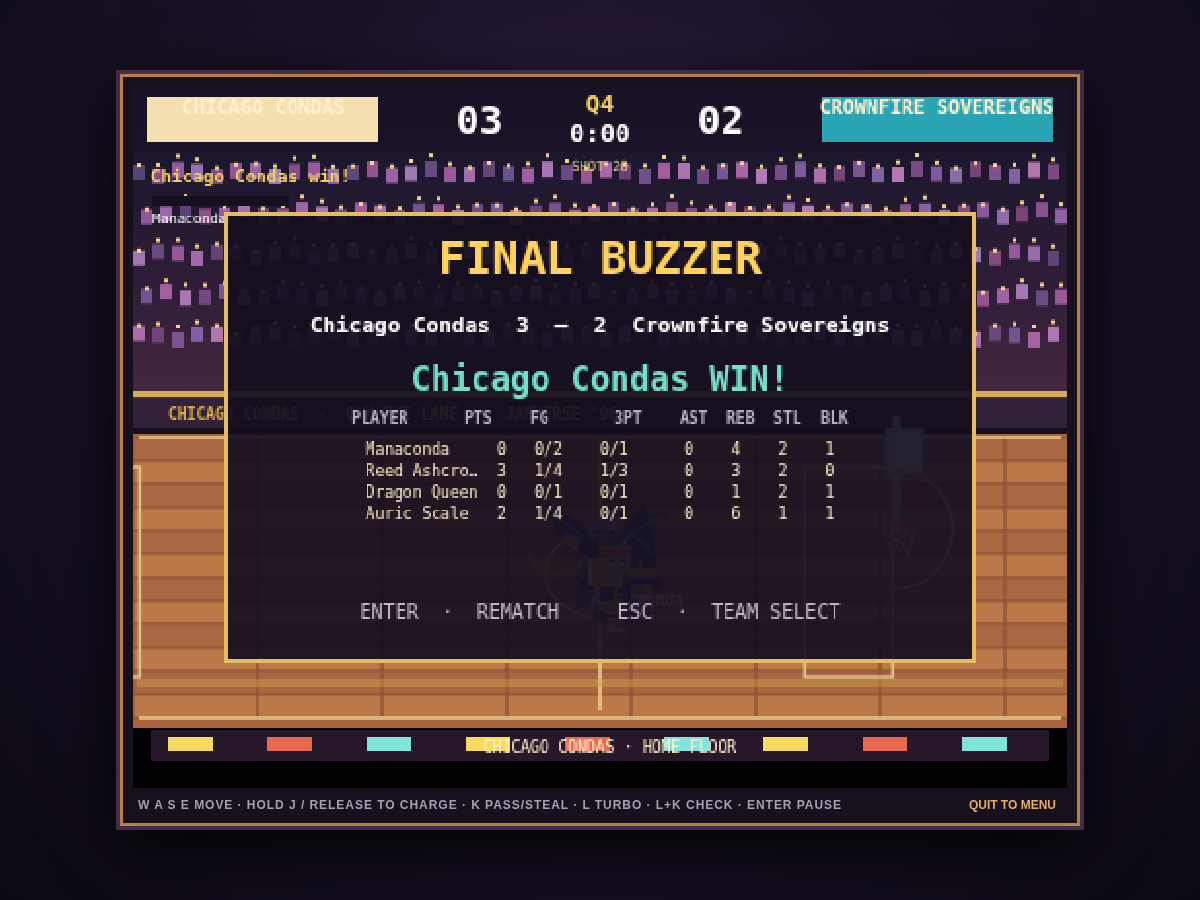
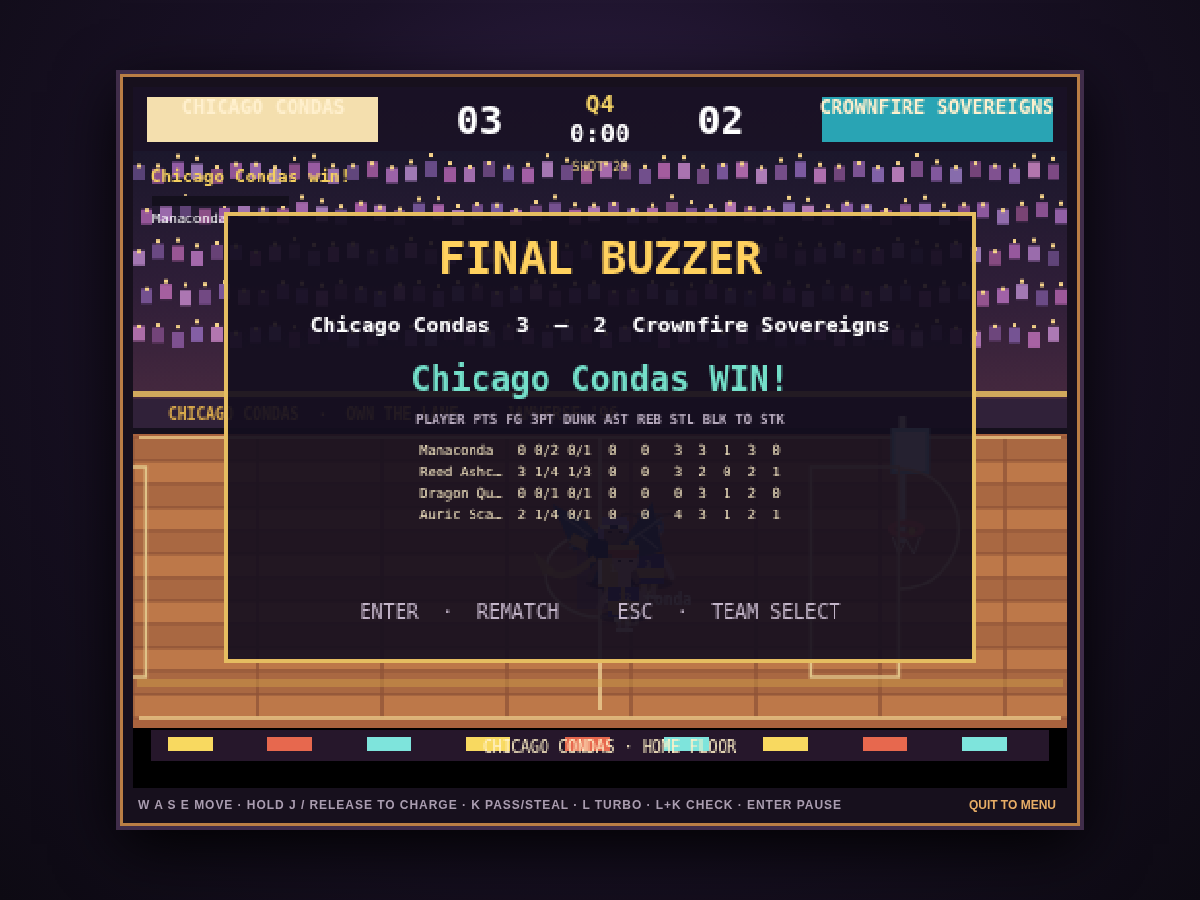
Track dunk stats and best scoring streaks

Changed region(s): [[0.2775, 0.4356, 0.7092, 0.5911], [0.0925, 0.5289, 0.1233, 0.7467]]

diff --git a/dist/JAMVERSE_96.html b/dist/JAMVERSE_96.html
@@ -211,7 +211,7 @@ function createInput(playerId, values = {}) {
 }
 
 function createPlayer(athlete, team, n, center) {
-  return { id: athlete?.id ?? `p${team}-${n}`, name: athlete?.name ?? (team === 0 ? ['Rookie','Sidekick'][n] : ['CPU Ace','CPU Wing'][n]), team, x: center + n * 5, y: 38 + n * 24, vx: 0, vy: 0, z: 0, vz: 0, speed: .09 + ((athlete?.stats?.speed ?? 78) / 99) * .09, shoot: athlete?.stats?.three ?? 78, dunk: athlete?.stats?.dunk ?? 75, block: athlete?.stats?.block ?? 75, steal: athlete?.stats?.steal ?? 75, strength: athlete?.stats?.strength ?? 75, hasBall: false, stamina: 100, charge: 0, stun: 0, anim: 'idle', poseFrames:0, points: 0, fga: 0, fgm: 0, threeAttempts: 0, threeMakes: 0, assists: 0, rebounds: 0, steals: 0, blocks: 0, turnovers:0, knockdowns: 0, fires: 0, fireGoals: 0, madeRun: 0, onFire: false, facing: team === 0 ? 1 : -1 };
+  return { id: athlete?.id ?? `p${team}-${n}`, name: athlete?.name ?? (team === 0 ? ['Rookie','Sidekick'][n] : ['CPU Ace','CPU Wing'][n]), team, x: center + n * 5, y: 38 + n * 24, vx: 0, vy: 0, z: 0, vz: 0, speed: .09 + ((athlete?.stats?.speed ?? 78) / 99) * .09, shoot: athlete?.stats?.three ?? 78, dunk: athlete?.stats?.dunk ?? 75, block: athlete?.stats?.block ?? 75, steal: athlete?.stats?.steal ?? 75, strength: athlete?.stats?.strength ?? 75, hasBall: false, stamina: 100, charge: 0, stun: 0, anim: 'idle', poseFrames:0, points: 0, fga: 0, fgm: 0, threeAttempts: 0, threeMakes: 0, dunks:0, assists: 0, rebounds: 0, steals: 0, blocks: 0, turnovers:0, knockdowns: 0, fires: 0, fireGoals: 0, madeRun: 0, highestStreak:0, onFire: false, facing: team === 0 ? 1 : -1 };
 }
 
 function createMatch({ quarterSeconds = 180, seed = 12345, home = null, away = null, homePartnerId = null, awayPartnerId = null, difficulty = 'Pro' } = {}) {
@@ -278,7 +278,7 @@ function commitScore(match, attempt) {
   match.scoredAttempts.push(attempt.id);
   match.score[attempt.team] += attempt.points;
   const scorer = playerById(match, attempt.playerId);
-  if (scorer) { scorer.points += attempt.points; scorer.fgm++; if(attempt.points===3)scorer.threeMakes++; scorer.madeRun++; if(scorer.onFire)scorer.fireGoals++; scorer.anim='celebrate';scorer.poseFrames=42; }
+  if (scorer) { scorer.points += attempt.points; scorer.fgm++; if(attempt.points===3)scorer.threeMakes++; if(attempt.id.startsWith('dunk-'))scorer.dunks++; scorer.madeRun++;scorer.highestStreak=Math.max(scorer.highestStreak,scorer.madeRun);if(scorer.onFire)scorer.fireGoals++; scorer.anim='celebrate';scorer.poseFrames=42; }
   const assister=playerById(match,match.assistCandidateId);
   if(assister&&assister.team===attempt.team&&assister.id!==scorer?.id)assister.assists++;
   match.assistCandidateId=null;
@@ -287,7 +287,7 @@ function commitScore(match, attempt) {
   for (const player of match.players) if (player.id !== scorer?.id) player.madeRun = 0;
   if (scorer?.madeRun >= 3 && !scorer.onFire) { scorer.onFire = true; scorer.fireGoals=0;scorer.fires++; event(match, `${scorer.name} is ON FIRE!`); }
   event(match, `${scorer?.name ?? 'Athlete'} scores ${attempt.points}!`);
-  if(scorer?.onFire&&scorer.fireGoals>=4){scorer.onFire=false;scorer.fireGoals=0;event(match,`${scorer.name} cools off!`);}
+  if(scorer?.onFire&&scorer.fireGoals>=4){scorer.onFire=false;scorer.fireGoals=0;scorer.madeRun=0;event(match,`${scorer.name} cools off!`);}
   match.ball.mode = 'dead'; match.ball.scored = true; match.ball.ownerId = null;
   for (const p of match.players) p.hasBall = false;
   match.scorePause = 42;
@@ -570,10 +570,10 @@ function rankLeague(table,teams){
 
 return {createLeagueTable,recordLeagueResult,rankLeague};
 })(),"./core/career.js":(()=>{
-const statKeys=['points','fgm','fga','threeMakes','threeAttempts','assists','rebounds','steals','blocks','turnovers'];
+const statKeys=['points','fgm','fga','threeMakes','threeAttempts','dunks','assists','rebounds','steals','blocks','turnovers'];
 
 function createCareerRecords(teams){
-  return Object.fromEntries(teams.flatMap(team=>team.roster.map(athlete=>[athlete.id,{games:0,...Object.fromEntries(statKeys.map(key=>[key,0]))}])));
+  return Object.fromEntries(teams.flatMap(team=>team.roster.map(athlete=>[athlete.id,{games:0,highestStreak:0,...Object.fromEntries(statKeys.map(key=>[key,0]))}])));
 }
 
 function recordCareerMatch(records,match){
@@ -581,9 +581,10 @@ function recordCareerMatch(records,match){
   const next={...records};
   for(const player of [...(match.playerBox??[]),...match.players]){
     if(!Object.hasOwn(records,player.id))continue;
-    const prior=next[player.id]??{games:0,...Object.fromEntries(statKeys.map(key=>[key,0]))};
+    const prior=next[player.id]??{games:0,highestStreak:0,...Object.fromEntries(statKeys.map(key=>[key,0]))};
     const row={...prior,games:prior.games+1};
     for(const key of statKeys)row[key]+=Number.isFinite(player[key])&&player[key]>=0?player[key]:0;
+    row.highestStreak=Math.max(prior.highestStreak??0,player.highestStreak??0);
     next[player.id]=row;
   }
   return next;
@@ -620,10 +621,10 @@ function leagueRecords(value,league){
 }
 
 function careerRecords(value,league){
-  const keys=['points','fgm','fga','threeMakes','threeAttempts','assists','rebounds','steals','blocks','turnovers'];
+  const keys=['points','fgm','fga','threeMakes','threeAttempts','dunks','assists','rebounds','steals','blocks','turnovers'];
   return Object.fromEntries(league.flatMap(team=>team.roster.map(athlete=>{
-    const row=value?.[athlete.id],valid=row&&Number.isInteger(row.games)&&row.games>=0&&keys.every(key=>Number.isInteger(row[key])&&row[key]>=0)&&row.fgm<=row.fga&&row.threeMakes<=row.threeAttempts&&row.threeAttempts<=row.fga;
-    return [athlete.id,valid?{games:row.games,...Object.fromEntries(keys.map(key=>[key,row[key]]))}:{games:0,...Object.fromEntries(keys.map(key=>[key,0]))}];
+    const row=value?.[athlete.id],required=keys.filter(key=>key!=='dunks'),valid=row&&Number.isInteger(row.games)&&row.games>=0&&required.every(key=>Number.isInteger(row[key])&&row[key]>=0)&&(row.dunks===undefined||(Number.isInteger(row.dunks)&&row.dunks>=0))&&(row.highestStreak===undefined||(Number.isInteger(row.highestStreak)&&row.highestStreak>=0))&&row.fgm<=row.fga&&row.threeMakes<=row.threeAttempts&&row.threeAttempts<=row.fga&&(row.dunks??0)<=row.fgm&&(row.highestStreak??0)<=row.fgm;
+    return [athlete.id,valid?{games:row.games,highestStreak:row.highestStreak??0,...Object.fromEntries(keys.map(key=>[key,key==='dunks'?row[key]??0:row[key]]))}:{games:0,highestStreak:0,...Object.fromEntries(keys.map(key=>[key,0]))}];
   })));
 }
 
@@ -782,7 +783,7 @@ function beginMatch(options={}){if(homeSelect.value===awaySelect.value){eventTex
 $('play').addEventListener('click',()=>beginMatch());$('practice').addEventListener('click',()=>beginMatch({practice:true}));
 $('settings').addEventListener('click',()=>$('settings-dialog').showModal());$('campaign').addEventListener('click',()=>showCampaign());
 $('standings').addEventListener('click',()=>{const list=$('standings-list');list.replaceChildren();rankLeague(saved.leagueRecords,teams).forEach((row,index)=>{const item=document.createElement('li'),diff=row.pointDifferential>0?`+${row.pointDifferential}`:String(row.pointDifferential);item.textContent=`${String(index+1).padStart(2,'0')}  ${row.teamName}  ${row.wins}-${row.losses}  PF ${row.pointsFor}  PA ${row.pointsAgainst}  ${diff}`;list.append(item)});$('standings-dialog').showModal()});
-$('careers').addEventListener('click',()=>{const list=$('career-list');list.replaceChildren();const leaders=rankCareerLeaders(saved.careerRecords,teams);if(!leaders.length){const empty=document.createElement('li');empty.textContent='No completed games yet. Play a full game to start the records.';list.append(empty)}else leaders.forEach((row,index)=>{const item=document.createElement('li');item.textContent=`${String(index+1).padStart(2,'0')}  ${row.name} · ${row.team}  ${row.points} PTS  ${row.assists} AST  ${row.rebounds} REB  ${row.games} GP`;list.append(item)});$('career-dialog').showModal()});
+$('careers').addEventListener('click',()=>{const list=$('career-list');list.replaceChildren();const leaders=rankCareerLeaders(saved.careerRecords,teams);if(!leaders.length){const empty=document.createElement('li');empty.textContent='No completed games yet. Play a full game to start the records.';list.append(empty)}else leaders.forEach((row,index)=>{const item=document.createElement('li');item.textContent=`${String(index+1).padStart(2,'0')}  ${row.name} · ${row.team}  ${row.points} PTS  ${row.dunks} DUNK  ${row.assists} AST  ${row.rebounds} REB  ${row.games} GP`;list.append(item)});$('career-dialog').showModal()});
 $('back-menu').addEventListener('click',()=>{cancelAnimationFrame(raf);stopArcadeMusic();mode='menu';screenGame.classList.add('hidden');screenStart.classList.remove('hidden');save();});
  $('music-volume').addEventListener('input',e=>{$('music-volume-value').textContent=`${e.target.value}%`;musicVolume=e.target.value/100;save()});$('effects-volume').addEventListener('input',e=>{$('effects-volume-value').textContent=`${e.target.value}%`;effectsVolume=e.target.value/100;save()});$('screen-shake').addEventListener('change',e=>{screenShake=e.target.checked;save()});$('reduced-flash').addEventListener('change',e=>{reducedFlash=e.target.checked;save()});$('team-markers').addEventListener('change',e=>{teamMarkers=e.target.checked;save()});$('text-size').addEventListener('input',e=>{textSize=Number(e.target.value);$('text-size-value').textContent=`${textSize}%`;document.documentElement.style.setProperty('--ui-zoom',String(textSize/100));save()});$('settings-dialog').querySelector('form').addEventListener('submit',save);
 homeSelect.addEventListener('change',()=>{syncLineup(homeSelect,homeLineup);updateTeamCards();save()});awaySelect.addEventListener('change',()=>{syncLineup(awaySelect,awayLineup);updateTeamCards();save()});homeLineup.addEventListener('change',save);awayLineup.addEventListener('change',save);$('quarter').addEventListener('change',save);$('two-players').addEventListener('change',()=>{$('same-team').disabled=!$('two-players').checked;if(!$('two-players').checked)$('same-team').checked=false;save()});$('same-team').addEventListener('change',save);
@@ -956,8 +957,8 @@ function drawOverlay(title,subtitle,footer){ctx.fillStyle='#110c19dc';ctx.fillRe
 function drawFinal(){
   ctx.fillStyle='#140e1eea';ctx.fillRect(48,65,384,230);ctx.strokeStyle='#e5bd61';ctx.lineWidth=2;ctx.strokeRect(48,65,384,230);ctx.textAlign='center';
   ctx.fillStyle='#ffd15e';ctx.font='bold 23px monospace';ctx.fillText('FINAL BUZZER',240,96);ctx.fillStyle='#fff';ctx.font='bold 11px monospace';ctx.fillText(`${match.teamNames[0]}  ${match.score[0]}  —  ${match.score[1]}  ${match.teamNames[1]}`,240,126);ctx.fillStyle='#74e0ca';ctx.font='bold 17px monospace';ctx.fillText(`${match.teamNames[match.winner]} WIN!`,240,156);
-  ctx.fillStyle='#b9acbf';ctx.font='bold 7px monospace';ctx.fillText('PLAYER    PTS  FG    3PT   AST REB STL BLK TO',240,173);ctx.fillStyle='#f5e7c3';ctx.font='7px monospace';
-  const box=[...(match.playerBox??[]),...match.players];for(let i=0;i<box.length;i++){const p=box[i],name=p.name.length>10?`${p.name.slice(0,9)}…`:p.name;ctx.fillText(`${name.padEnd(10)} ${String(p.points).padStart(2)} ${p.fgm}/${p.fga} ${p.threeMakes}/${p.threeAttempts}  ${p.assists}   ${p.rebounds}  ${p.steals}  ${p.blocks}  ${p.turnovers||0}`,240,189+i*11)}
+  ctx.fillStyle='#b9acbf';ctx.font='bold 7px monospace';ctx.fillText('PLAYER PTS FG 3PT DUNK AST REB STL BLK TO STK',240,173);ctx.fillStyle='#f5e7c3';ctx.font='7px monospace';
+  const box=[...(match.playerBox??[]),...match.players];for(let i=0;i<box.length;i++){const p=box[i],name=p.name.length>10?`${p.name.slice(0,9)}…`:p.name;ctx.fillText(`${name.padEnd(10)} ${String(p.points).padStart(2)} ${p.fgm}/${p.fga} ${p.threeMakes}/${p.threeAttempts}  ${p.dunks||0}   ${p.assists}   ${p.rebounds}  ${p.steals}  ${p.blocks}  ${p.turnovers||0}  ${p.highestStreak||0}`,240,189+i*11)}
   if(match.campaignResult){ctx.fillStyle='#f6c95f';ctx.font='bold 10px monospace';ctx.fillText(`SEASON: ${match.campaignResult}  ${saved.season.wins}/${seasonLength}`,240,249)}ctx.fillStyle='#c4b6ca';ctx.font='10px monospace';ctx.fillText('ENTER  ·  REMATCH     ESC  ·  TEAM SELECT',240,273);ctx.textAlign='left';
 }
 

diff --git a/dist/src/main.js b/dist/src/main.js
@@ -129,7 +129,7 @@ function beginMatch(options={}){if(homeSelect.value===awaySelect.value){eventTex
 $('play').addEventListener('click',()=>beginMatch());$('practice').addEventListener('click',()=>beginMatch({practice:true}));
 $('settings').addEventListener('click',()=>$('settings-dialog').showModal());$('campaign').addEventListener('click',()=>showCampaign());
 $('standings').addEventListener('click',()=>{const list=$('standings-list');list.replaceChildren();rankLeague(saved.leagueRecords,teams).forEach((row,index)=>{const item=document.createElement('li'),diff=row.pointDifferential>0?`+${row.pointDifferential}`:String(row.pointDifferential);item.textContent=`${String(index+1).padStart(2,'0')}  ${row.teamName}  ${row.wins}-${row.losses}  PF ${row.pointsFor}  PA ${row.pointsAgainst}  ${diff}`;list.append(item)});$('standings-dialog').showModal()});
-$('careers').addEventListener('click',()=>{const list=$('career-list');list.replaceChildren();const leaders=rankCareerLeaders(saved.careerRecords,teams);if(!leaders.length){const empty=document.createElement('li');empty.textContent='No completed games yet. Play a full game to start the records.';list.append(empty)}else leaders.forEach((row,index)=>{const item=document.createElement('li');item.textContent=`${String(index+1).padStart(2,'0')}  ${row.name} · ${row.team}  ${row.points} PTS  ${row.assists} AST  ${row.rebounds} REB  ${row.games} GP`;list.append(item)});$('career-dialog').showModal()});
+$('careers').addEventListener('click',()=>{const list=$('career-list');list.replaceChildren();const leaders=rankCareerLeaders(saved.careerRecords,teams);if(!leaders.length){const empty=document.createElement('li');empty.textContent='No completed games yet. Play a full game to start the records.';list.append(empty)}else leaders.forEach((row,index)=>{const item=document.createElement('li');item.textContent=`${String(index+1).padStart(2,'0')}  ${row.name} · ${row.team}  ${row.points} PTS  ${row.dunks} DUNK  ${row.assists} AST  ${row.rebounds} REB  ${row.games} GP`;list.append(item)});$('career-dialog').showModal()});
 $('back-menu').addEventListener('click',()=>{cancelAnimationFrame(raf);stopArcadeMusic();mode='menu';screenGame.classList.add('hidden');screenStart.classList.remove('hidden');save();});
  $('music-volume').addEventListener('input',e=>{$('music-volume-value').textContent=`${e.target.value}%`;musicVolume=e.target.value/100;save()});$('effects-volume').addEventListener('input',e=>{$('effects-volume-value').textContent=`${e.target.value}%`;effectsVolume=e.target.value/100;save()});$('screen-shake').addEventListener('change',e=>{screenShake=e.target.checked;save()});$('reduced-flash').addEventListener('change',e=>{reducedFlash=e.target.checked;save()});$('team-markers').addEventListener('change',e=>{teamMarkers=e.target.checked;save()});$('text-size').addEventListener('input',e=>{textSize=Number(e.target.value);$('text-size-value').textContent=`${textSize}%`;document.documentElement.style.setProperty('--ui-zoom',String(textSize/100));save()});$('settings-dialog').querySelector('form').addEventListener('submit',save);
 homeSelect.addEventListener('change',()=>{syncLineup(homeSelect,homeLineup);updateTeamCards();save()});awaySelect.addEventListener('change',()=>{syncLineup(awaySelect,awayLineup);updateTeamCards();save()});homeLineup.addEventListener('change',save);awayLineup.addEventListener('change',save);$('quarter').addEventListener('change',save);$('two-players').addEventListener('change',()=>{$('same-team').disabled=!$('two-players').checked;if(!$('two-players').checked)$('same-team').checked=false;save()});$('same-team').addEventListener('change',save);
@@ -303,8 +303,8 @@ function drawOverlay(title,subtitle,footer){ctx.fillStyle='#110c19dc';ctx.fillRe
 function drawFinal(){
   ctx.fillStyle='#140e1eea';ctx.fillRect(48,65,384,230);ctx.strokeStyle='#e5bd61';ctx.lineWidth=2;ctx.strokeRect(48,65,384,230);ctx.textAlign='center';
   ctx.fillStyle='#ffd15e';ctx.font='bold 23px monospace';ctx.fillText('FINAL BUZZER',240,96);ctx.fillStyle='#fff';ctx.font='bold 11px monospace';ctx.fillText(`${match.teamNames[0]}  ${match.score[0]}  —  ${match.score[1]}  ${match.teamNames[1]}`,240,126);ctx.fillStyle='#74e0ca';ctx.font='bold 17px monospace';ctx.fillText(`${match.teamNames[match.winner]} WIN!`,240,156);
-  ctx.fillStyle='#b9acbf';ctx.font='bold 7px monospace';ctx.fillText('PLAYER    PTS  FG    3PT   AST REB STL BLK TO',240,173);ctx.fillStyle='#f5e7c3';ctx.font='7px monospace';
-  const box=[...(match.playerBox??[]),...match.players];for(let i=0;i<box.length;i++){const p=box[i],name=p.name.length>10?`${p.name.slice(0,9)}…`:p.name;ctx.fillText(`${name.padEnd(10)} ${String(p.points).padStart(2)} ${p.fgm}/${p.fga} ${p.threeMakes}/${p.threeAttempts}  ${p.assists}   ${p.rebounds}  ${p.steals}  ${p.blocks}  ${p.turnovers||0}`,240,189+i*11)}
+  ctx.fillStyle='#b9acbf';ctx.font='bold 7px monospace';ctx.fillText('PLAYER PTS FG 3PT DUNK AST REB STL BLK TO STK',240,173);ctx.fillStyle='#f5e7c3';ctx.font='7px monospace';
+  const box=[...(match.playerBox??[]),...match.players];for(let i=0;i<box.length;i++){const p=box[i],name=p.name.length>10?`${p.name.slice(0,9)}…`:p.name;ctx.fillText(`${name.padEnd(10)} ${String(p.points).padStart(2)} ${p.fgm}/${p.fga} ${p.threeMakes}/${p.threeAttempts}  ${p.dunks||0}   ${p.assists}   ${p.rebounds}  ${p.steals}  ${p.blocks}  ${p.turnovers||0}  ${p.highestStreak||0}`,240,189+i*11)}
   if(match.campaignResult){ctx.fillStyle='#f6c95f';ctx.font='bold 10px monospace';ctx.fillText(`SEASON: ${match.campaignResult}  ${saved.season.wins}/${seasonLength}`,240,249)}ctx.fillStyle='#c4b6ca';ctx.font='10px monospace';ctx.fillText('ENTER  ·  REMATCH     ESC  ·  TEAM SELECT',240,273);ctx.textAlign='left';
 }
 

diff --git a/src/main.js b/src/main.js
@@ -129,7 +129,7 @@ function beginMatch(options={}){if(homeSelect.value===awaySelect.value){eventTex
 $('play').addEventListener('click',()=>beginMatch());$('practice').addEventListener('click',()=>beginMatch({practice:true}));
 $('settings').addEventListener('click',()=>$('settings-dialog').showModal());$('campaign').addEventListener('click',()=>showCampaign());
 $('standings').addEventListener('click',()=>{const list=$('standings-list');list.replaceChildren();rankLeague(saved.leagueRecords,teams).forEach((row,index)=>{const item=document.createElement('li'),diff=row.pointDifferential>0?`+${row.pointDifferential}`:String(row.pointDifferential);item.textContent=`${String(index+1).padStart(2,'0')}  ${row.teamName}  ${row.wins}-${row.losses}  PF ${row.pointsFor}  PA ${row.pointsAgainst}  ${diff}`;list.append(item)});$('standings-dialog').showModal()});
-$('careers').addEventListener('click',()=>{const list=$('career-list');list.replaceChildren();const leaders=rankCareerLeaders(saved.careerRecords,teams);if(!leaders.length){const empty=document.createElement('li');empty.textContent='No completed games yet. Play a full game to start the records.';list.append(empty)}else leaders.forEach((row,index)=>{const item=document.createElement('li');item.textContent=`${String(index+1).padStart(2,'0')}  ${row.name} · ${row.team}  ${row.points} PTS  ${row.assists} AST  ${row.rebounds} REB  ${row.games} GP`;list.append(item)});$('career-dialog').showModal()});
+$('careers').addEventListener('click',()=>{const list=$('career-list');list.replaceChildren();const leaders=rankCareerLeaders(saved.careerRecords,teams);if(!leaders.length){const empty=document.createElement('li');empty.textContent='No completed games yet. Play a full game to start the records.';list.append(empty)}else leaders.forEach((row,index)=>{const item=document.createElement('li');item.textContent=`${String(index+1).padStart(2,'0')}  ${row.name} · ${row.team}  ${row.points} PTS  ${row.dunks} DUNK  ${row.assists} AST  ${row.rebounds} REB  ${row.games} GP`;list.append(item)});$('career-dialog').showModal()});
 $('back-menu').addEventListener('click',()=>{cancelAnimationFrame(raf);stopArcadeMusic();mode='menu';screenGame.classList.add('hidden');screenStart.classList.remove('hidden');save();});
  $('music-volume').addEventListener('input',e=>{$('music-volume-value').textContent=`${e.target.value}%`;musicVolume=e.target.value/100;save()});$('effects-volume').addEventListener('input',e=>{$('effects-volume-value').textContent=`${e.target.value}%`;effectsVolume=e.target.value/100;save()});$('screen-shake').addEventListener('change',e=>{screenShake=e.target.checked;save()});$('reduced-flash').addEventListener('change',e=>{reducedFlash=e.target.checked;save()});$('team-markers').addEventListener('change',e=>{teamMarkers=e.target.checked;save()});$('text-size').addEventListener('input',e=>{textSize=Number(e.target.value);$('text-size-value').textContent=`${textSize}%`;document.documentElement.style.setProperty('--ui-zoom',String(textSize/100));save()});$('settings-dialog').querySelector('form').addEventListener('submit',save);
 homeSelect.addEventListener('change',()=>{syncLineup(homeSelect,homeLineup);updateTeamCards();save()});awaySelect.addEventListener('change',()=>{syncLineup(awaySelect,awayLineup);updateTeamCards();save()});homeLineup.addEventListener('change',save);awayLineup.addEventListener('change',save);$('quarter').addEventListener('change',save);$('two-players').addEventListener('change',()=>{$('same-team').disabled=!$('two-players').checked;if(!$('two-players').checked)$('same-team').checked=false;save()});$('same-team').addEventListener('change',save);
@@ -303,8 +303,8 @@ function drawOverlay(title,subtitle,footer){ctx.fillStyle='#110c19dc';ctx.fillRe
 function drawFinal(){
   ctx.fillStyle='#140e1eea';ctx.fillRect(48,65,384,230);ctx.strokeStyle='#e5bd61';ctx.lineWidth=2;ctx.strokeRect(48,65,384,230);ctx.textAlign='center';
   ctx.fillStyle='#ffd15e';ctx.font='bold 23px monospace';ctx.fillText('FINAL BUZZER',240,96);ctx.fillStyle='#fff';ctx.font='bold 11px monospace';ctx.fillText(`${match.teamNames[0]}  ${match.score[0]}  —  ${match.score[1]}  ${match.teamNames[1]}`,240,126);ctx.fillStyle='#74e0ca';ctx.font='bold 17px monospace';ctx.fillText(`${match.teamNames[match.winner]} WIN!`,240,156);
-  ctx.fillStyle='#b9acbf';ctx.font='bold 7px monospace';ctx.fillText('PLAYER    PTS  FG    3PT   AST REB STL BLK TO',240,173);ctx.fillStyle='#f5e7c3';ctx.font='7px monospace';
-  const box=[...(match.playerBox??[]),...match.players];for(let i=0;i<box.length;i++){const p=box[i],name=p.name.length>10?`${p.name.slice(0,9)}…`:p.name;ctx.fillText(`${name.padEnd(10)} ${String(p.points).padStart(2)} ${p.fgm}/${p.fga} ${p.threeMakes}/${p.threeAttempts}  ${p.assists}   ${p.rebounds}  ${p.steals}  ${p.blocks}  ${p.turnovers||0}`,240,189+i*11)}
+  ctx.fillStyle='#b9acbf';ctx.font='bold 7px monospace';ctx.fillText('PLAYER PTS FG 3PT DUNK AST REB STL BLK TO STK',240,173);ctx.fillStyle='#f5e7c3';ctx.font='7px monospace';
+  const box=[...(match.playerBox??[]),...match.players];for(let i=0;i<box.length;i++){const p=box[i],name=p.name.length>10?`${p.name.slice(0,9)}…`:p.name;ctx.fillText(`${name.padEnd(10)} ${String(p.points).padStart(2)} ${p.fgm}/${p.fga} ${p.threeMakes}/${p.threeAttempts}  ${p.dunks||0}   ${p.assists}   ${p.rebounds}  ${p.steals}  ${p.blocks}  ${p.turnovers||0}  ${p.highestStreak||0}`,240,189+i*11)}
   if(match.campaignResult){ctx.fillStyle='#f6c95f';ctx.font='bold 10px monospace';ctx.fillText(`SEASON: ${match.campaignResult}  ${saved.season.wins}/${seasonLength}`,240,249)}ctx.fillStyle='#c4b6ca';ctx.font='10px monospace';ctx.fillText('ENTER  ·  REMATCH     ESC  ·  TEAM SELECT',240,273);ctx.textAlign='left';
 }
 

diff --git a/dist/src/core/simulation.js b/dist/src/core/simulation.js
@@ -21,7 +21,7 @@ export function createInput(playerId, values = {}) {
 }
 
 function createPlayer(athlete, team, n, center) {
-  return { id: athlete?.id ?? `p${team}-${n}`, name: athlete?.name ?? (team === 0 ? ['Rookie','Sidekick'][n] : ['CPU Ace','CPU Wing'][n]), team, x: center + n * 5, y: 38 + n * 24, vx: 0, vy: 0, z: 0, vz: 0, speed: .09 + ((athlete?.stats?.speed ?? 78) / 99) * .09, shoot: athlete?.stats?.three ?? 78, dunk: athlete?.stats?.dunk ?? 75, block: athlete?.stats?.block ?? 75, steal: athlete?.stats?.steal ?? 75, strength: athlete?.stats?.strength ?? 75, hasBall: false, stamina: 100, charge: 0, stun: 0, anim: 'idle', poseFrames:0, points: 0, fga: 0, fgm: 0, threeAttempts: 0, threeMakes: 0, assists: 0, rebounds: 0, steals: 0, blocks: 0, turnovers:0, knockdowns: 0, fires: 0, fireGoals: 0, madeRun: 0, onFire: false, facing: team === 0 ? 1 : -1 };
+  return { id: athlete?.id ?? `p${team}-${n}`, name: athlete?.name ?? (team === 0 ? ['Rookie','Sidekick'][n] : ['CPU Ace','CPU Wing'][n]), team, x: center + n * 5, y: 38 + n * 24, vx: 0, vy: 0, z: 0, vz: 0, speed: .09 + ((athlete?.stats?.speed ?? 78) / 99) * .09, shoot: athlete?.stats?.three ?? 78, dunk: athlete?.stats?.dunk ?? 75, block: athlete?.stats?.block ?? 75, steal: athlete?.stats?.steal ?? 75, strength: athlete?.stats?.strength ?? 75, hasBall: false, stamina: 100, charge: 0, stun: 0, anim: 'idle', poseFrames:0, points: 0, fga: 0, fgm: 0, threeAttempts: 0, threeMakes: 0, dunks:0, assists: 0, rebounds: 0, steals: 0, blocks: 0, turnovers:0, knockdowns: 0, fires: 0, fireGoals: 0, madeRun: 0, highestStreak:0, onFire: false, facing: team === 0 ? 1 : -1 };
 }
 
 export function createMatch({ quarterSeconds = 180, seed = 12345, home = null, away = null, homePartnerId = null, awayPartnerId = null, difficulty = 'Pro' } = {}) {
@@ -88,7 +88,7 @@ export function commitScore(match, attempt) {
   match.scoredAttempts.push(attempt.id);
   match.score[attempt.team] += attempt.points;
   const scorer = playerById(match, attempt.playerId);
-  if (scorer) { scorer.points += attempt.points; scorer.fgm++; if(attempt.points===3)scorer.threeMakes++; scorer.madeRun++; if(scorer.onFire)scorer.fireGoals++; scorer.anim='celebrate';scorer.poseFrames=42; }
+  if (scorer) { scorer.points += attempt.points; scorer.fgm++; if(attempt.points===3)scorer.threeMakes++; if(attempt.id.startsWith('dunk-'))scorer.dunks++; scorer.madeRun++;scorer.highestStreak=Math.max(scorer.highestStreak,scorer.madeRun);if(scorer.onFire)scorer.fireGoals++; scorer.anim='celebrate';scorer.poseFrames=42; }
   const assister=playerById(match,match.assistCandidateId);
   if(assister&&assister.team===attempt.team&&assister.id!==scorer?.id)assister.assists++;
   match.assistCandidateId=null;
@@ -97,7 +97,7 @@ export function commitScore(match, attempt) {
   for (const player of match.players) if (player.id !== scorer?.id) player.madeRun = 0;
   if (scorer?.madeRun >= 3 && !scorer.onFire) { scorer.onFire = true; scorer.fireGoals=0;scorer.fires++; event(match, `${scorer.name} is ON FIRE!`); }
   event(match, `${scorer?.name ?? 'Athlete'} scores ${attempt.points}!`);
-  if(scorer?.onFire&&scorer.fireGoals>=4){scorer.onFire=false;scorer.fireGoals=0;event(match,`${scorer.name} cools off!`);}
+  if(scorer?.onFire&&scorer.fireGoals>=4){scorer.onFire=false;scorer.fireGoals=0;scorer.madeRun=0;event(match,`${scorer.name} cools off!`);}
   match.ball.mode = 'dead'; match.ball.scored = true; match.ball.ownerId = null;
   for (const p of match.players) p.hasBall = false;
   match.scorePause = 42;

diff --git a/src/core/simulation.js b/src/core/simulation.js
@@ -21,7 +21,7 @@ export function createInput(playerId, values = {}) {
 }
 
 function createPlayer(athlete, team, n, center) {
-  return { id: athlete?.id ?? `p${team}-${n}`, name: athlete?.name ?? (team === 0 ? ['Rookie','Sidekick'][n] : ['CPU Ace','CPU Wing'][n]), team, x: center + n * 5, y: 38 + n * 24, vx: 0, vy: 0, z: 0, vz: 0, speed: .09 + ((athlete?.stats?.speed ?? 78) / 99) * .09, shoot: athlete?.stats?.three ?? 78, dunk: athlete?.stats?.dunk ?? 75, block: athlete?.stats?.block ?? 75, steal: athlete?.stats?.steal ?? 75, strength: athlete?.stats?.strength ?? 75, hasBall: false, stamina: 100, charge: 0, stun: 0, anim: 'idle', poseFrames:0, points: 0, fga: 0, fgm: 0, threeAttempts: 0, threeMakes: 0, assists: 0, rebounds: 0, steals: 0, blocks: 0, turnovers:0, knockdowns: 0, fires: 0, fireGoals: 0, madeRun: 0, onFire: false, facing: team === 0 ? 1 : -1 };
+  return { id: athlete?.id ?? `p${team}-${n}`, name: athlete?.name ?? (team === 0 ? ['Rookie','Sidekick'][n] : ['CPU Ace','CPU Wing'][n]), team, x: center + n * 5, y: 38 + n * 24, vx: 0, vy: 0, z: 0, vz: 0, speed: .09 + ((athlete?.stats?.speed ?? 78) / 99) * .09, shoot: athlete?.stats?.three ?? 78, dunk: athlete?.stats?.dunk ?? 75, block: athlete?.stats?.block ?? 75, steal: athlete?.stats?.steal ?? 75, strength: athlete?.stats?.strength ?? 75, hasBall: false, stamina: 100, charge: 0, stun: 0, anim: 'idle', poseFrames:0, points: 0, fga: 0, fgm: 0, threeAttempts: 0, threeMakes: 0, dunks:0, assists: 0, rebounds: 0, steals: 0, blocks: 0, turnovers:0, knockdowns: 0, fires: 0, fireGoals: 0, madeRun: 0, highestStreak:0, onFire: false, facing: team === 0 ? 1 : -1 };
 }
 
 export function createMatch({ quarterSeconds = 180, seed = 12345, home = null, away = null, homePartnerId = null, awayPartnerId = null, difficulty = 'Pro' } = {}) {
@@ -88,7 +88,7 @@ export function commitScore(match, attempt) {
   match.scoredAttempts.push(attempt.id);
   match.score[attempt.team] += attempt.points;
   const scorer = playerById(match, attempt.playerId);
-  if (scorer) { scorer.points += attempt.points; scorer.fgm++; if(attempt.points===3)scorer.threeMakes++; scorer.madeRun++; if(scorer.onFire)scorer.fireGoals++; scorer.anim='celebrate';scorer.poseFrames=42; }
+  if (scorer) { scorer.points += attempt.points; scorer.fgm++; if(attempt.points===3)scorer.threeMakes++; if(attempt.id.startsWith('dunk-'))scorer.dunks++; scorer.madeRun++;scorer.highestStreak=Math.max(scorer.highestStreak,scorer.madeRun);if(scorer.onFire)scorer.fireGoals++; scorer.anim='celebrate';scorer.poseFrames=42; }
   const assister=playerById(match,match.assistCandidateId);
   if(assister&&assister.team===attempt.team&&assister.id!==scorer?.id)assister.assists++;
   match.assistCandidateId=null;
@@ -97,7 +97,7 @@ export function commitScore(match, attempt) {
   for (const player of match.players) if (player.id !== scorer?.id) player.madeRun = 0;
   if (scorer?.madeRun >= 3 && !scorer.onFire) { scorer.onFire = true; scorer.fireGoals=0;scorer.fires++; event(match, `${scorer.name} is ON FIRE!`); }
   event(match, `${scorer?.name ?? 'Athlete'} scores ${attempt.points}!`);
-  if(scorer?.onFire&&scorer.fireGoals>=4){scorer.onFire=false;scorer.fireGoals=0;event(match,`${scorer.name} cools off!`);}
+  if(scorer?.onFire&&scorer.fireGoals>=4){scorer.onFire=false;scorer.fireGoals=0;scorer.madeRun=0;event(match,`${scorer.name} cools off!`);}
   match.ball.mode = 'dead'; match.ball.scored = true; match.ball.ownerId = null;
   for (const p of match.players) p.hasBall = false;
   match.scorePause = 42;

diff --git a/tests/game-core.test.js b/tests/game-core.test.js
@@ -173,12 +173,27 @@ test('fire duration advances only on made field goals, not on shot attempts',()=
   stepMatch(match,[createInput(shooter.id,{shootPressed:true})]);
   assert.equal(shooter.fireGoals,0);
   assert.equal(shooter.onFire,true);
+  assert.equal(shooter.highestStreak,3);
   for(let make=0;make<3;make++)commitScore(match,{id:`fire-${make}`,team:0,playerId:shooter.id,points:2});
   assert.equal(shooter.fireGoals,3);
   assert.equal(shooter.onFire,true);
   commitScore(match,{id:'fire-fourth',team:0,playerId:shooter.id,points:2});
   assert.equal(shooter.onFire,false);
   assert.equal(shooter.fireGoals,0);
+  assert.equal(shooter.madeRun,0,'a cooled player needs a new three-basket run to ignite again');
+  for(let make=0;make<2;make++)commitScore(match,{id:`restart-${make}`,team:0,playerId:shooter.id,points:2});
+  assert.equal(shooter.onFire,false);
+  commitScore(match,{id:'restart-third',team:0,playerId:shooter.id,points:2});
+  assert.equal(shooter.onFire,true);
+  assert.equal(shooter.highestStreak,7);
+});
+
+test('box score tracks dunks and unique best made-basket streak',()=>{
+  const match=createMatch({quarterSeconds:60,seed:56}),scorer=match.players[0];
+  commitScore(match,{id:'dunk-test-1',team:0,playerId:scorer.id,points:2});
+  commitScore(match,{id:'dunk-test-2',team:0,playerId:scorer.id,points:2});
+  commitScore(match,{id:'dunk-test-3',team:0,playerId:scorer.id,points:3});
+  assert.equal(scorer.dunks,3);assert.equal(scorer.highestStreak,3);
 });
 
 test('a shot is a released ball with a locked value and no attached owner', () => {

diff --git a/dist/src/core/preferences.js b/dist/src/core/preferences.js
@@ -20,10 +20,10 @@ function leagueRecords(value,league){
 }
 
 function careerRecords(value,league){
-  const keys=['points','fgm','fga','threeMakes','threeAttempts','assists','rebounds','steals','blocks','turnovers'];
+  const keys=['points','fgm','fga','threeMakes','threeAttempts','dunks','assists','rebounds','steals','blocks','turnovers'];
   return Object.fromEntries(league.flatMap(team=>team.roster.map(athlete=>{
-    const row=value?.[athlete.id],valid=row&&Number.isInteger(row.games)&&row.games>=0&&keys.every(key=>Number.isInteger(row[key])&&row[key]>=0)&&row.fgm<=row.fga&&row.threeMakes<=row.threeAttempts&&row.threeAttempts<=row.fga;
-    return [athlete.id,valid?{games:row.games,...Object.fromEntries(keys.map(key=>[key,row[key]]))}:{games:0,...Object.fromEntries(keys.map(key=>[key,0]))}];
+    const row=value?.[athlete.id],required=keys.filter(key=>key!=='dunks'),valid=row&&Number.isInteger(row.games)&&row.games>=0&&required.every(key=>Number.isInteger(row[key])&&row[key]>=0)&&(row.dunks===undefined||(Number.isInteger(row.dunks)&&row.dunks>=0))&&(row.highestStreak===undefined||(Number.isInteger(row.highestStreak)&&row.highestStreak>=0))&&row.fgm<=row.fga&&row.threeMakes<=row.threeAttempts&&row.threeAttempts<=row.fga&&(row.dunks??0)<=row.fgm&&(row.highestStreak??0)<=row.fgm;
+    return [athlete.id,valid?{games:row.games,highestStreak:row.highestStreak??0,...Object.fromEntries(keys.map(key=>[key,key==='dunks'?row[key]??0:row[key]]))}:{games:0,highestStreak:0,...Object.fromEntries(keys.map(key=>[key,0]))}];
   })));
 }
 

diff --git a/src/core/preferences.js b/src/core/preferences.js
@@ -20,10 +20,10 @@ function leagueRecords(value,league){
 }
 
 function careerRecords(value,league){
-  const keys=['points','fgm','fga','threeMakes','threeAttempts','assists','rebounds','steals','blocks','turnovers'];
+  const keys=['points','fgm','fga','threeMakes','threeAttempts','dunks','assists','rebounds','steals','blocks','turnovers'];
   return Object.fromEntries(league.flatMap(team=>team.roster.map(athlete=>{
-    const row=value?.[athlete.id],valid=row&&Number.isInteger(row.games)&&row.games>=0&&keys.every(key=>Number.isInteger(row[key])&&row[key]>=0)&&row.fgm<=row.fga&&row.threeMakes<=row.threeAttempts&&row.threeAttempts<=row.fga;
-    return [athlete.id,valid?{games:row.games,...Object.fromEntries(keys.map(key=>[key,row[key]]))}:{games:0,...Object.fromEntries(keys.map(key=>[key,0]))}];
+    const row=value?.[athlete.id],required=keys.filter(key=>key!=='dunks'),valid=row&&Number.isInteger(row.games)&&row.games>=0&&required.every(key=>Number.isInteger(row[key])&&row[key]>=0)&&(row.dunks===undefined||(Number.isInteger(row.dunks)&&row.dunks>=0))&&(row.highestStreak===undefined||(Number.isInteger(row.highestStreak)&&row.highestStreak>=0))&&row.fgm<=row.fga&&row.threeMakes<=row.threeAttempts&&row.threeAttempts<=row.fga&&(row.dunks??0)<=row.fgm&&(row.highestStreak??0)<=row.fgm;
+    return [athlete.id,valid?{games:row.games,highestStreak:row.highestStreak??0,...Object.fromEntries(keys.map(key=>[key,key==='dunks'?row[key]??0:row[key]]))}:{games:0,highestStreak:0,...Object.fromEntries(keys.map(key=>[key,0]))}];
   })));
 }
 

diff --git a/dist/src/core/career.js b/dist/src/core/career.js
@@ -1,7 +1,7 @@
-const statKeys=['points','fgm','fga','threeMakes','threeAttempts','assists','rebounds','steals','blocks','turnovers'];
+const statKeys=['points','fgm','fga','threeMakes','threeAttempts','dunks','assists','rebounds','steals','blocks','turnovers'];
 
 export function createCareerRecords(teams){
-  return Object.fromEntries(teams.flatMap(team=>team.roster.map(athlete=>[athlete.id,{games:0,...Object.fromEntries(statKeys.map(key=>[key,0]))}])));
+  return Object.fromEntries(teams.flatMap(team=>team.roster.map(athlete=>[athlete.id,{games:0,highestStreak:0,...Object.fromEntries(statKeys.map(key=>[key,0]))}])));
 }
 
 export function recordCareerMatch(records,match){
@@ -9,9 +9,10 @@ export function recordCareerMatch(records,match){
   const next={...records};
   for(const player of [...(match.playerBox??[]),...match.players]){
     if(!Object.hasOwn(records,player.id))continue;
-    const prior=next[player.id]??{games:0,...Object.fromEntries(statKeys.map(key=>[key,0]))};
+    const prior=next[player.id]??{games:0,highestStreak:0,...Object.fromEntries(statKeys.map(key=>[key,0]))};
     const row={...prior,games:prior.games+1};
     for(const key of statKeys)row[key]+=Number.isFinite(player[key])&&player[key]>=0?player[key]:0;
+    row.highestStreak=Math.max(prior.highestStreak??0,player.highestStreak??0);
     next[player.id]=row;
   }
   return next;

diff --git a/src/core/career.js b/src/core/career.js
@@ -1,7 +1,7 @@
-const statKeys=['points','fgm','fga','threeMakes','threeAttempts','assists','rebounds','steals','blocks','turnovers'];
+const statKeys=['points','fgm','fga','threeMakes','threeAttempts','dunks','assists','rebounds','steals','blocks','turnovers'];
 
 export function createCareerRecords(teams){
-  return Object.fromEntries(teams.flatMap(team=>team.roster.map(athlete=>[athlete.id,{games:0,...Object.fromEntries(statKeys.map(key=>[key,0]))}])));
+  return Object.fromEntries(teams.flatMap(team=>team.roster.map(athlete=>[athlete.id,{games:0,highestStreak:0,...Object.fromEntries(statKeys.map(key=>[key,0]))}])));
 }
 
 export function recordCareerMatch(records,match){
@@ -9,9 +9,10 @@ export function recordCareerMatch(records,match){
   const next={...records};
   for(const player of [...(match.playerBox??[]),...match.players]){
     if(!Object.hasOwn(records,player.id))continue;
-    const prior=next[player.id]??{games:0,...Object.fromEntries(statKeys.map(key=>[key,0]))};
+    const prior=next[player.id]??{games:0,highestStreak:0,...Object.fromEntries(statKeys.map(key=>[key,0]))};
     const row={...prior,games:prior.games+1};
     for(const key of statKeys)row[key]+=Number.isFinite(player[key])&&player[key]>=0?player[key]:0;
+    row.highestStreak=Math.max(prior.highestStreak??0,player.highestStreak??0);
     next[player.id]=row;
   }
   return next;

diff --git a/tests/career.test.js b/tests/career.test.js
@@ -6,10 +6,11 @@ import { createCareerRecords, recordCareerMatch, rankCareerLeaders } from '../sr
 test('career totals aggregate completed games across substitutions and rank top scorers',()=>{
   const ids=teams[0].roster.map(player=>player.id);
   const table=createCareerRecords(teams);
-  const match={phase:'final',score:[8,4],playerBox:[{id:ids[1],points:2,fgm:1,fga:2,threeMakes:0,threeAttempts:1,assists:2,rebounds:1,steals:0,blocks:0,turnovers:1}],players:[{id:ids[0],points:6,fgm:3,fga:4,threeMakes:0,threeAttempts:0,assists:1,rebounds:2,steals:1,blocks:1,turnovers:0},{id:'unknown',points:99}]};
+  const match={phase:'final',score:[8,4],playerBox:[{id:ids[1],points:2,fgm:1,fga:2,threeMakes:0,threeAttempts:1,dunks:1,highestStreak:1,assists:2,rebounds:1,steals:0,blocks:0,turnovers:1}],players:[{id:ids[0],points:6,fgm:3,fga:4,threeMakes:0,threeAttempts:0,dunks:2,highestStreak:3,assists:1,rebounds:2,steals:1,blocks:1,turnovers:0},{id:'unknown',points:99}]};
   const next=recordCareerMatch(table,match);
   assert.equal(next[ids[0]].games,1);
   assert.equal(next[ids[0]].points,6);
+  assert.equal(next[ids[0]].dunks,2);assert.equal(next[ids[0]].highestStreak,3);
   assert.equal(next[ids[1]].assists,2);
   assert.equal(next[ids[2]].games,0);
   assert.deepEqual(rankCareerLeaders(next,teams,1).map(row=>row.athleteId),[ids[0]]);

diff --git a/tests/preferences.test.js b/tests/preferences.test.js
@@ -67,6 +67,15 @@ test('preserves separate v4 music and effects levels',()=>{
   assert.equal(next.musicVolume,.18);assert.equal(next.effectsVolume,.83);
 });
 
+test('adds dunk and streak fields without dropping earlier v4 career totals',()=>{
+  const career={games:2,points:12,fgm:5,fga:8,threeMakes:1,threeAttempts:3,assists:2,rebounds:3,steals:1,blocks:0,turnovers:1};
+  const saved={schemaVersion:4,home:teams[0].id,away:teams[1].id,careerRecords:{'juniper-vale':career}};
+  const next=loadPreferences(memoryStore({[preferenceStorageKey]:saved}),teams,createSeason,seasonLength);
+  assert.equal(next.careerRecords['juniper-vale'].points,12);
+  assert.equal(next.careerRecords['juniper-vale'].dunks,0);
+  assert.equal(next.careerRecords['juniper-vale'].highestStreak,0);
+});
+
 test('screen shake defaults on and respects the saved accessibility toggle',()=>{
   const saved={schemaVersion:4,home:teams[0].id,away:teams[1].id,screenShake:false};
   assert.equal(loadPreferences(memoryStore({[preferenceStorageKey]:saved}),teams,createSeason,seasonLength).screenShake,false);
